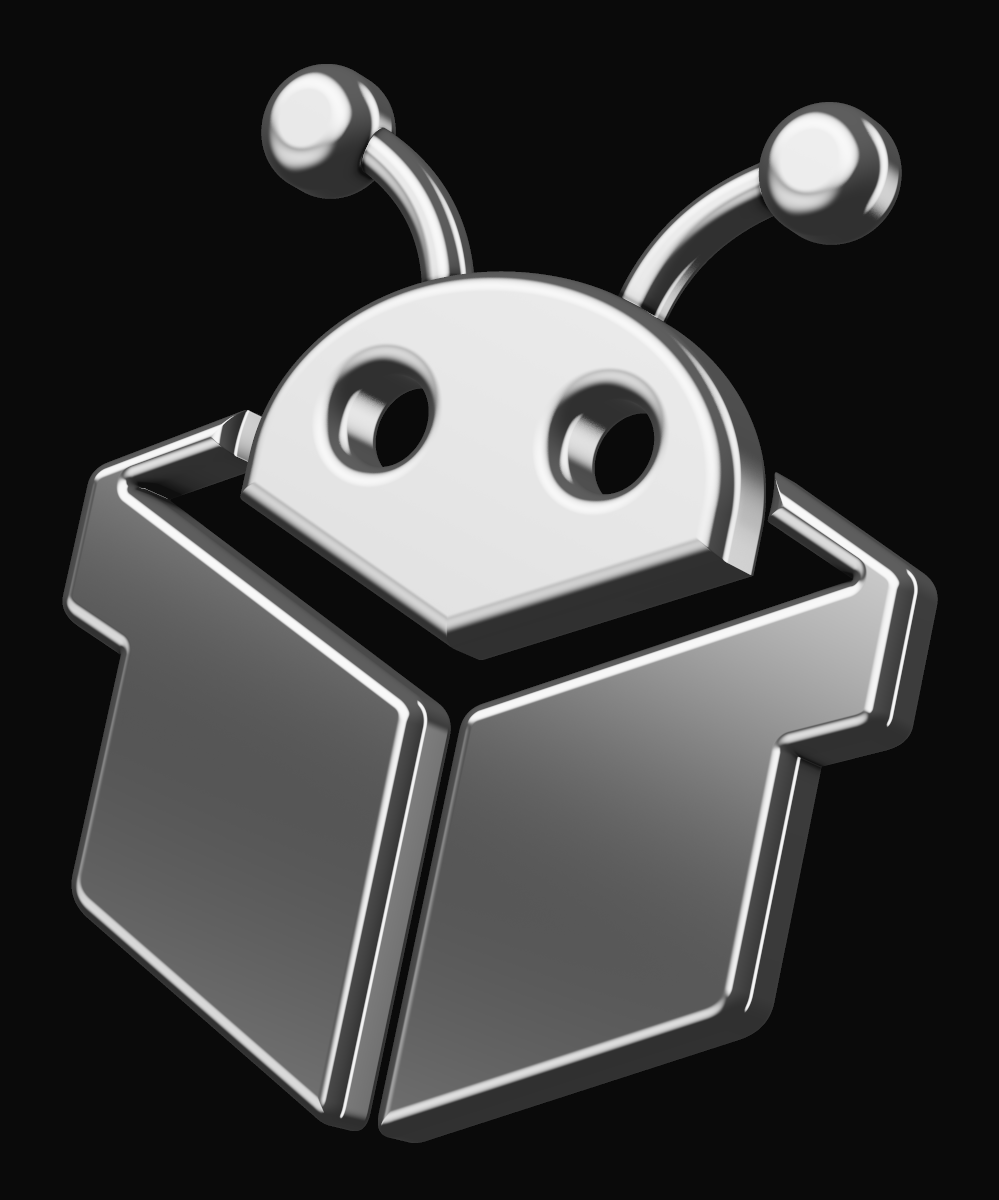
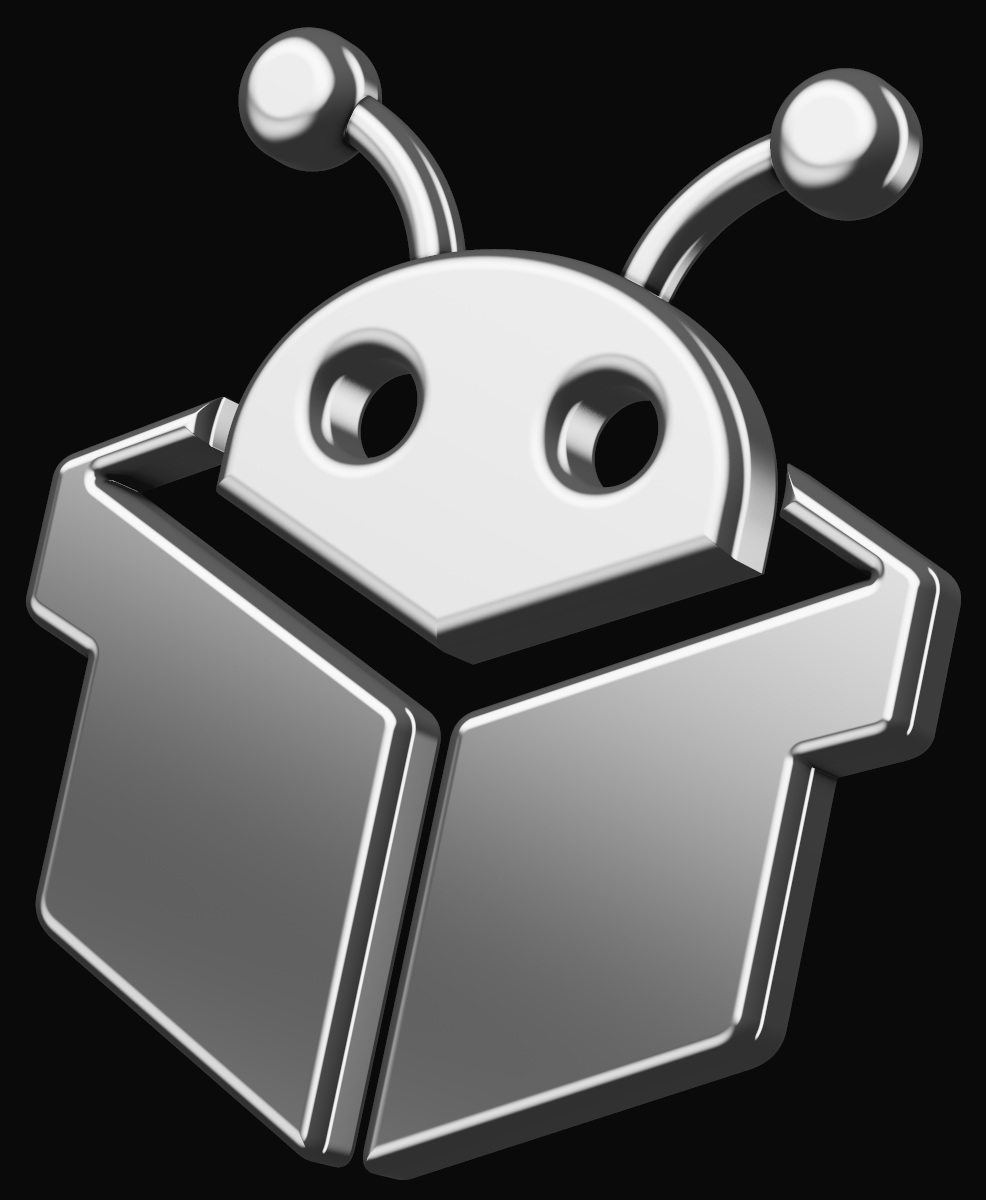
fix(site): x402 mark lit from a bright upper right to a shaded foot, filling its picture

diff --git a/packages/site/components/landing/dither-logo/dither-logo.tsx b/packages/site/components/landing/dither-logo/dither-logo.tsx
@@ -5,7 +5,7 @@ import DitherVeil from "./dither-veil";
 import { LogoBoundary } from "./error-boundary";
 
 /** The mark as a lit aluminium object on the page ground, as scripts/render-mark.mjs writes it. */
-export const MARK = { src: "/mark.png", width: 999, height: 1200 };
+export const MARK = { src: "/mark.png", width: 986, height: 1200 };
 /** The tokens' values, for a stylesheet without them. */
 const INK = "#0a0a0a";
 const PAPER = "#ededed";
